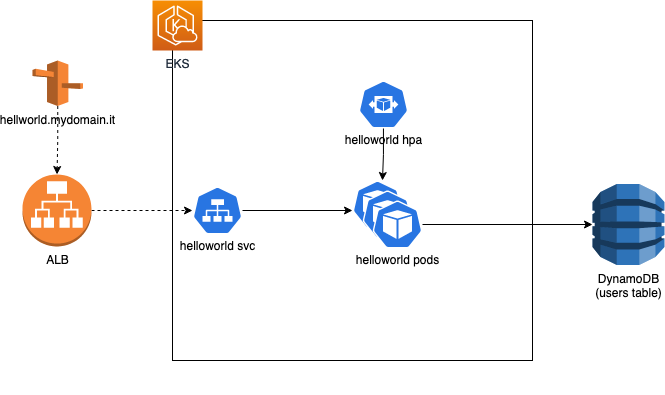
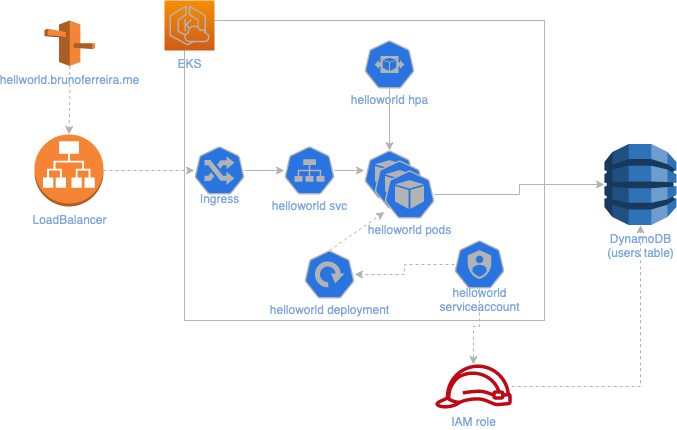
update docs and minor fixes

diff --git a/README.md b/README.md
@@ -2,14 +2,17 @@
 
 Basic API written in golang that stores users with a username and date of birth and calculates the number of days until next birthday.
 
-## Architecture
+## Service Architecture
 
 The overall architecture to have this service deployed on AWS would look look this:
 ![Architecture](./docs/architecture.png)
 
-The application would be deployed on a kubernetes cluster on AWS (EKS) using the helm chart available on this repo. Inside the cluster, the pods will be autoscaled by an horizontal pod autoscaler and will be associated with a kubernetes service, in order to have incoming traffic.
-The pods would interact with a table called `users` on DynamoDB.
-To have traffic coming to the application we would need an Application Load Balancer and a Route53 record pointing to it.
+The application runs on a kubernetes cluster on AWS (EKS) using the helm chart available on this repo. Inside the cluster, the pods will be autoscaled by an horizontal pod autoscaler (for now is configured to scale up just based on cpu by default) and is associated with a kubernetes service, in order to have incoming traffic. An Ingress resource is also available on the helm chart to be enabled. 
+An NGINX Ingress Controller will also be running on the cluster to configure a Load Balancer that will route traffic into the kubernetes cluster. An [external dns](https://github.com/kubernetes-sigs/external-dns) controller will also be deployed in the cluster to update the route53 record with the Load Balancer URL automatically.
+On the backend, the `helloworld` pods will interact with a table called `users` on DynamoDB.
+
+## Network Architecture
+
 
 ## Terraform
 
